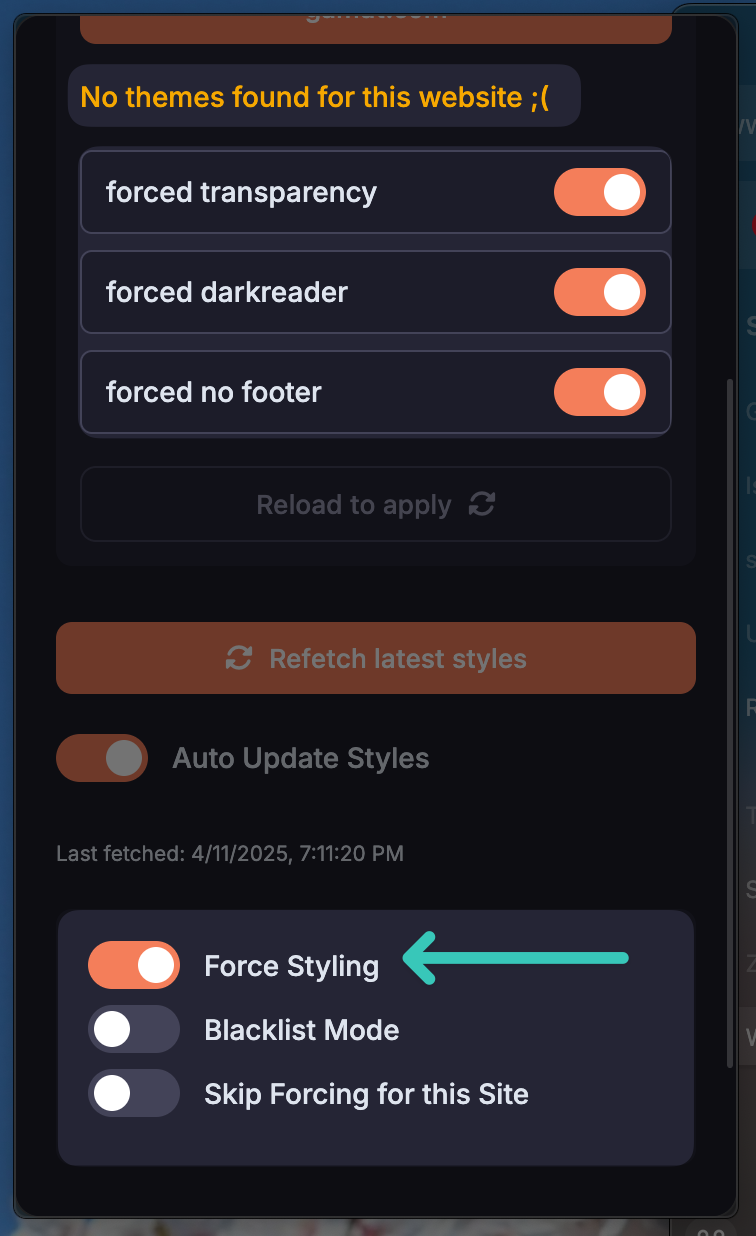
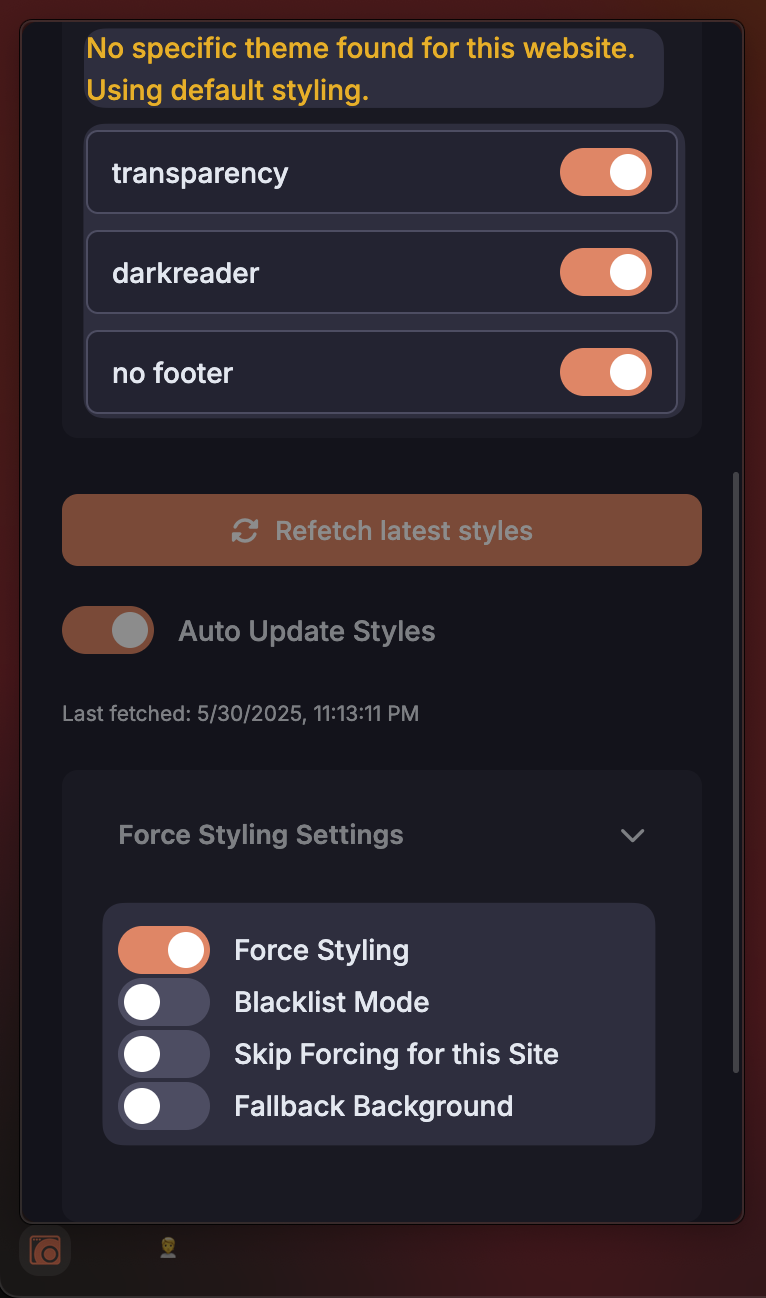
updated screenshots and some feature details in zen zero

diff --git a/zen.html b/zen.html
@@ -165,7 +165,7 @@
                         keep them up to date as I make changes.</p>
                     <img class="figure item" src="./assets/img/articles/zen/notion/zen-internet-sync.png" alt="">
                 </li>
-                <h2 id="done">Done <br>Your browser is now transparent <br>At least I hope so </h2>
+                <h2 id="done">Congratulations! <br>Your browser is now transparent <br>At least I hope so </h2>
                 <p class="item article-text">You can now enjoy the zen browser with a transparent background. You can
                     also change adjust various features provided for each website when you opent he pop-up in that
                     webpage.</p>
@@ -309,6 +309,10 @@
                     </ul>
                 </li>
                 <img class="figure item" src="./assets/img/articles/zen/notion/forcing.png" alt="Zen Internet Addon">
+                <li>
+                    <p class="item article-text">Sometimes you may find websites with no background set for the html or the body so turning off transparency will take no effect for them.
+                        In this case, use the fallback background option to add a default background for the html element.</p>
+                </li>
             </ul>
         </article>
 

diff --git a/css/zen.css b/css/zen.css
@@ -17,7 +17,7 @@ li > h2 {
 }
 
 .zen-article li {
-  margin-bottom: 3em;
+  margin-bottom: 1.5em;
 
   &::marker {
     color: var(--primary-color);
@@ -106,13 +106,14 @@ article.sub {
 
 img.figure {
   max-width: 70%;
-  max-height: 70vh;
+  max-height: 50vh;
   height: auto;
   margin: 0 2em;
   display: block;
   border-radius: 1em;
 
   @media screen and (max-width: 500px) {
+    max-height: 70vh;
     max-width: 90%;
     margin: 0 auto;
   }
@@ -228,6 +229,13 @@ img.figure {
   background-repeat: no-repeat;
   background-size: contain;
   background-position: center;
+
+  @media screen and (max-width: 500px) {
+    max-width: 90vw;
+    padding: 1em 1em;
+    margin-right: 3em;
+    font-size: 1.5em;
+  }
 }
 
 a.redirects {
